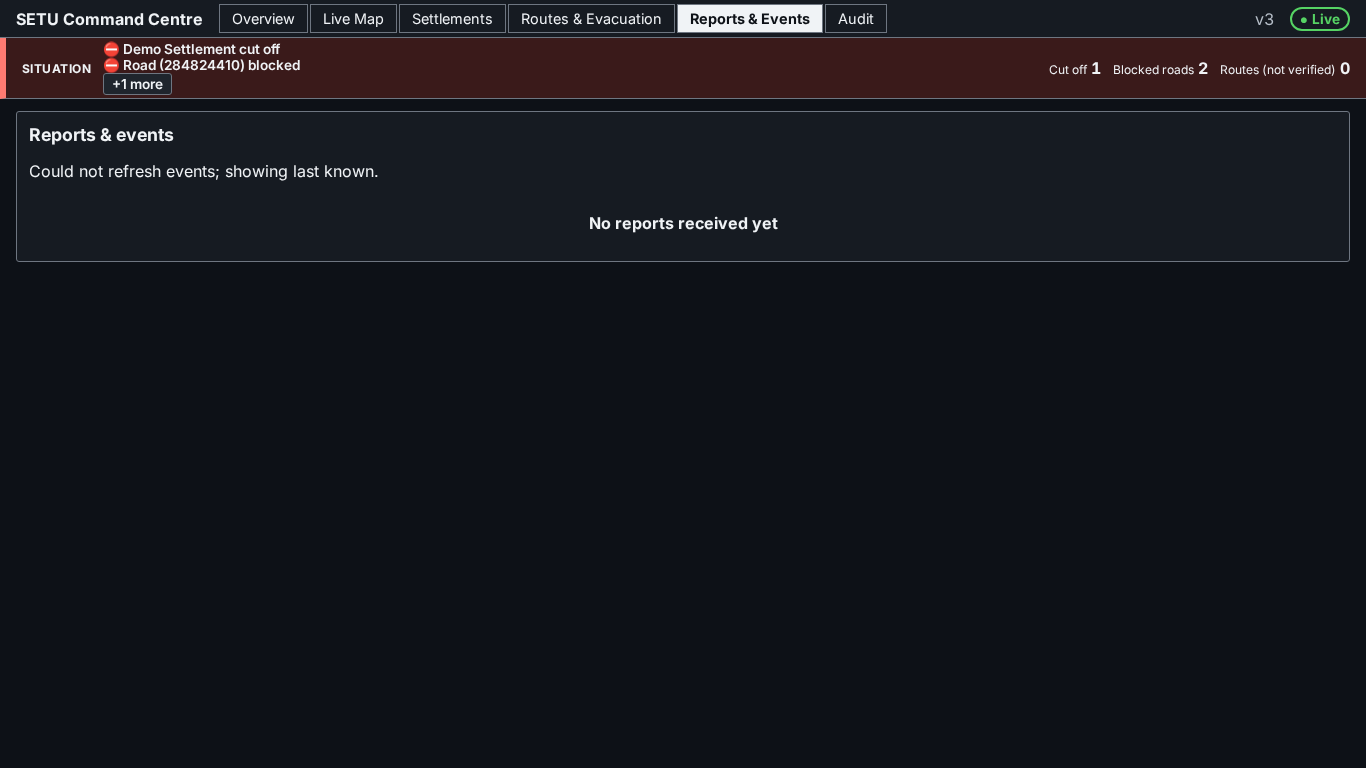
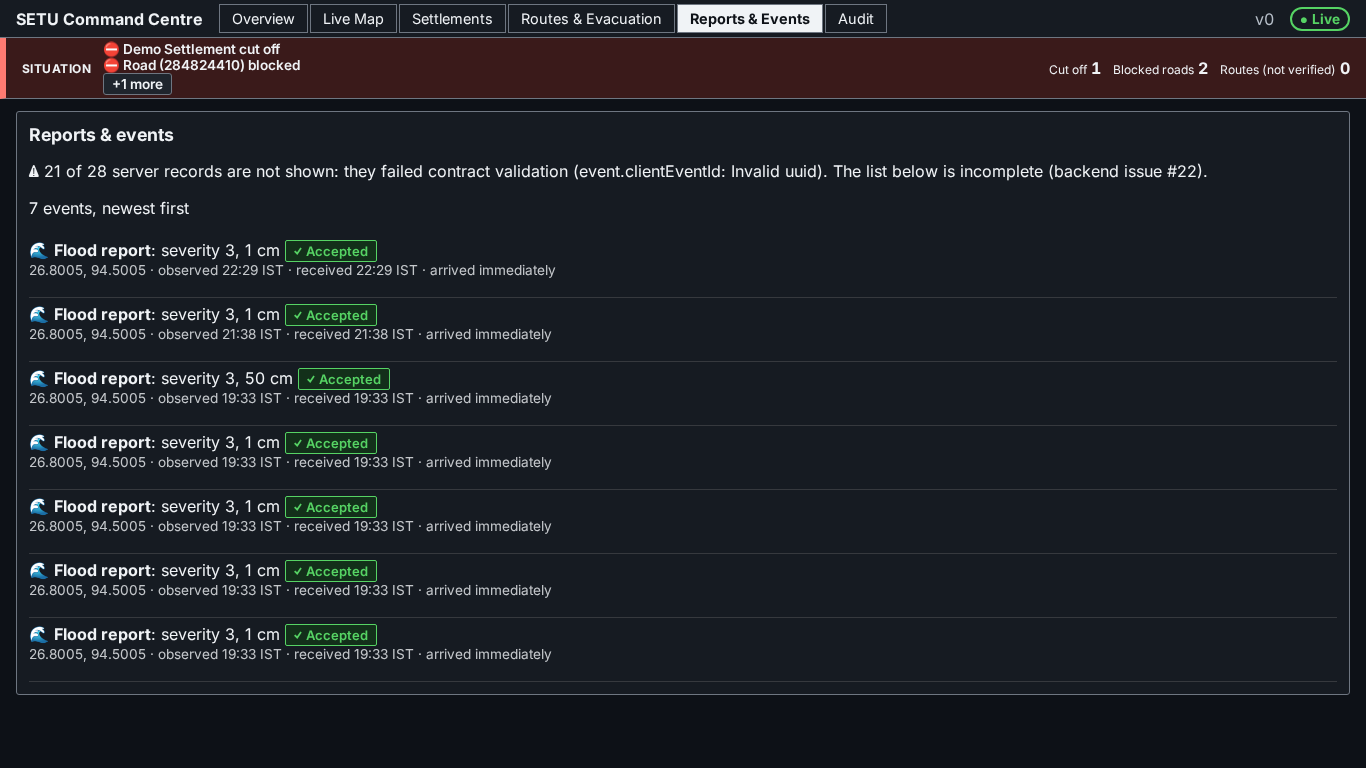
frontend: keep valid event records when some fail validation; synthetic road halo
listEvents validates record by record and reports skipped records (onSkippedRecords);
Command shows a notice in Events and Audit. Backend 28296b6 flags synthetic roads: add a map halo.

diff --git a/frontend/packages/api-client/src/http.ts b/frontend/packages/api-client/src/http.ts
@@ -40,11 +40,13 @@ export interface HttpApiClientOptions {
   reconnectMaxMs?: number;
   /** Defaults to the global EventSource when present; otherwise polling only. */
   eventSource?: EventSourceFactory;
+  /** Called after every listEvents() with how many server records failed contract validation (0 = none). Valid records are still returned. */
+  onSkippedRecords?: (info: { skipped: number; total: number; firstIssue?: string }) => void;
 }
 
 const BatchResponse = z.object({ acks: z.array(SubmitAckSchema) });
 const StatusResponse = z.object({ statuses: z.array(EventStatusSchema) });
-const EventsResponse = z.object({ events: z.array(EventRecordSchema) });
+const EventsResponse = z.object({ events: z.array(z.unknown()) });
 const StreamMessage = z.object({ type: z.literal('version'), version: z.number().int().nonnegative() });
 
 export function createHttpApiClient(opts: HttpApiClientOptions = {}): ApiClient {
@@ -142,7 +144,17 @@ export function createHttpApiClient(opts: HttpApiClientOptions = {}): ApiClient 
     if (params.type !== undefined) q.set('type', params.type);
     const qs = q.toString();
     const res = await request('/api/v1/events' + (qs ? `?${qs}` : ''));
-    return (await json(res, EventsResponse)).events;
+    // Validate record by record: one bad record must not hide the valid ones. Skipped records are reported, never silently dropped.
+    const raw = (await json(res, EventsResponse)).events;
+    const valid: EventRecord[] = [];
+    let firstIssue: string | undefined;
+    for (const rec of raw) {
+      const r = EventRecordSchema.safeParse(rec);
+      if (r.success) valid.push(r.data);
+      else firstIssue ??= `${r.error.issues[0]?.path.join('.') ?? '?'}: ${r.error.issues[0]?.message ?? 'invalid'}`;
+    }
+    opts.onSkippedRecords?.({ skipped: raw.length - valid.length, total: raw.length, ...(firstIssue ? { firstIssue } : {}) });
+    return valid;
   }
 
   function subscribe(onChange: (snapshotVersion: number) => void): () => void {

diff --git a/frontend/packages/api-client/src/events-skipped.test.ts b/frontend/packages/api-client/src/events-skipped.test.ts
@@ -1,0 +1,38 @@
+import { describe, expect, it } from 'vitest';
+import { createHttpApiClient } from './http.js';
+
+const valid = {
+  eventId: 'evt_1',
+  event: {
+    clientEventId: '2c7cd4dc-f5ee-4380-b21f-068e3c0564dd', type: 'flood_report', occurredAt: '2026-10-30T10:00:00Z',
+    reporterId: 'r1', deviceId: 'd1', location: { lat: 26.9, lng: 94.1 }, severity: 2,
+  },
+  serverState: 'applied', receivedAt: '2026-10-30T10:00:01Z', appliedAtVersion: 3,
+};
+// Internal-envelope style record: clientEventId is a ULID, not a UUID (live backend issue #22).
+const bad = { ...valid, eventId: 'evt_2', event: { ...valid.event, clientEventId: '06GRTDY13XGYWMK9J2TGCC7GNR' } };
+
+const clientWith = (events: unknown[], onSkipped?: (i: { skipped: number; total: number; firstIssue?: string }) => void) =>
+  createHttpApiClient({
+    baseUrl: 'http://x',
+    fetch: (async () => new Response(JSON.stringify({ events }), { status: 200, headers: { 'content-type': 'application/json' } })) as typeof fetch,
+    ...(onSkipped ? { onSkippedRecords: onSkipped } : {}),
+  });
+
+describe('listEvents with records that fail contract validation', () => {
+  it('returns the valid records and reports how many were skipped, never failing the whole list', async () => {
+    const seen: Array<{ skipped: number; total: number; firstIssue?: string }> = [];
+    const out = await clientWith([valid, bad, bad], (i) => seen.push(i)).listEvents();
+    expect(out.map((e) => e.eventId)).toEqual(['evt_1']);
+    expect(seen).toHaveLength(1);
+    expect(seen[0]).toMatchObject({ skipped: 2, total: 3 });
+    expect(seen[0]!.firstIssue).toContain('clientEventId');
+  });
+
+  it('reports zero skipped when everything is valid', async () => {
+    const seen: number[] = [];
+    const out = await clientWith([valid], (i) => seen.push(i.skipped)).listEvents();
+    expect(out).toHaveLength(1);
+    expect(seen).toEqual([0]);
+  });
+});

diff --git a/frontend/apps/command/src/data/skipped.tsx b/frontend/apps/command/src/data/skipped.tsx
@@ -1,0 +1,23 @@
+import { useSyncExternalStore } from 'react';
+
+/** Server event records that failed contract validation on the last fetch (reported by the http client, never silently dropped). */
+export interface SkippedInfo { skipped: number; total: number; firstIssue?: string }
+let current: SkippedInfo = { skipped: 0, total: 0 };
+const listeners = new Set<() => void>();
+export function setSkippedEvents(info: SkippedInfo): void {
+  if (info.skipped === current.skipped && info.total === current.total) return;
+  current = info; listeners.forEach((l) => l());
+}
+const subscribe = (l: () => void) => { listeners.add(l); return () => { listeners.delete(l); }; };
+export const useSkippedEvents = (): SkippedInfo => useSyncExternalStore(subscribe, () => current);
+
+export function SkippedEventsNotice() {
+  const { skipped, total, firstIssue } = useSkippedEvents();
+  if (skipped === 0) return null;
+  return (
+    <p role="status" data-testid="skipped-events-notice" data-skipped={skipped}>
+      ⚠ {skipped} of {total} server records are not shown: they failed contract validation
+      {firstIssue ? ` (${firstIssue})` : ''}. The list below is incomplete (backend issue #22).
+    </p>
+  );
+}

diff --git a/frontend/apps/command/src/map/layers.ts b/frontend/apps/command/src/map/layers.ts
@@ -86,7 +86,7 @@ export const toggleDataClass = (id: ToggleId): DataClass => LAYER_DATA_CLASS[TOG
 export const TOGGLE_LAYERS: Record<ToggleId, string[]> = {
   terrain: [],
   rivers: [],
-  roads: ['roads-bridge-casing', 'roads-line', 'roads-line-minor'],
+  roads: ['roads-bridge-casing', 'roads-line', 'roads-line-minor', 'roads-synthetic'],
   settlements: ['settlements-circle', 'settlements-synthetic'],
   shelters: ['shelters-circle', 'shelters-synthetic'],
   flood: ['flood-fill', 'flood-outline', 'flood-outline-modelled', 'flood-uncertain'],
@@ -274,6 +274,11 @@ export const MAP_LAYERS: LayerSpecification[] = [
       'circle-stroke-width': 2,
       'circle-stroke-opacity': 0.8,
     },
+  },
+  {
+    id: 'roads-synthetic', type: 'line', source: SOURCE_IDS.roads, filter: ['==', ['get', 'synthetic'], true],
+    layout: { 'line-cap': 'round', 'line-join': 'round' },
+    paint: { 'line-color': '#7b3fb0', 'line-width': 11, 'line-opacity': 0.28 },
   },
   {
     // Backend-flagged demo/fixture features (properties.synthetic === true): purple ring, so they never pass as real.

diff --git a/frontend/packages/api-client/src/index.ts b/frontend/packages/api-client/src/index.ts
@@ -12,10 +12,12 @@ export interface CreateApiClientOptions {
   mockAdapter?: ApiClient;
   /** For mode 'http' (stub until contract sign-off). */
   baseUrl?: string;
+  /** For mode 'http': reports server event records skipped for failing contract validation. */
+  onSkippedRecords?: (info: { skipped: number; total: number; firstIssue?: string }) => void;
 }
 
 export function createApiClient(opts: CreateApiClientOptions): ApiClient {
-  if (opts.mode === 'http') return createHttpApiClient({ baseUrl: opts.baseUrl });
+  if (opts.mode === 'http') return createHttpApiClient({ baseUrl: opts.baseUrl, ...(opts.onSkippedRecords ? { onSkippedRecords: opts.onSkippedRecords } : {}) });
   if (opts.mode === 'mock') {
     if (!opts.mockAdapter) {
       throw new Error("createApiClient({mode:'mock'}) needs a mockAdapter; use createApiClientWithMock from @setu/mock-backend");

diff --git a/frontend/apps/command/src/sections/events/EventsSection.tsx b/frontend/apps/command/src/sections/events/EventsSection.tsx
@@ -1,3 +1,4 @@
+import { SkippedEventsNotice } from '../../data/skipped';
 import { memo, useMemo, useState } from 'react';
 import { Panel, EmptyState, SyncStatusBadge } from '@setu/ui';
 import type { ProjectionSnapshot } from '@setu/contract';
@@ -84,6 +85,7 @@ export function EventsFeed({
   return (
     <div data-testid="events-section">
       <Panel title="Reports & events">
+        <SkippedEventsNotice />
         {error && <p role="alert">Could not refresh events; showing last known.</p>}
         {rows.length === 0 ? (
           <EmptyState title="No reports received yet" />

diff --git a/frontend/apps/command/src/audit/AuditView.tsx b/frontend/apps/command/src/audit/AuditView.tsx
@@ -1,3 +1,4 @@
+import { SkippedEventsNotice } from '../data/skipped';
 import { useMemo, useState } from 'react';
 import { Panel, EmptyState, SyncStatusBadge } from '@setu/ui';
 import type { EventRecord, FieldEventType } from '@setu/contract';
@@ -63,6 +64,7 @@ export function AuditView({ onShowFeature }: AuditViewProps) {
   return (
     <div data-testid="audit-view">
       <Panel title="Audit: every report received">
+        <SkippedEventsNotice />
         <div style={{ display: 'flex', gap: 12, marginBottom: 8, flexWrap: 'wrap' }}>
           <label>
             Type{' '}

diff --git a/frontend/apps/command/src/data/client.ts b/frontend/apps/command/src/data/client.ts
@@ -1,8 +1,9 @@
 import type { ApiClient } from '@setu/contract';
 import { createApiClient } from '@setu/api-client';
+import { setSkippedEvents } from './skipped';
 
 /** The only place the backend adapter is chosen: real HTTP API (VITE_API_URL, default http://localhost:8080). */
 export function createAppClient(): ApiClient {
   const baseUrl = (import.meta.env.VITE_API_URL as string | undefined) || 'http://localhost:8080';
-  return createApiClient({ mode: 'http', baseUrl });
+  return createApiClient({ mode: 'http', baseUrl, onSkippedRecords: setSkippedEvents });
 }

diff --git a/frontend/docs/FINAL_DELIVERY.md b/frontend/docs/FINAL_DELIVERY.md
@@ -20,7 +20,7 @@ Run against OpenCode's live backend (`VITE_API_URL`, not hard-coded) with the bu
 ## Not demonstrable / blockers
 1. **Route before closure vs after closure.** The backend's event log is persistent and the demo closure was already applied by earlier test events, so the live data is permanently in the "after" state. A "before" view needs a reset or a scenario namespace from OpenCode.
 2. **"No route after closure" shows as "No safe route"**, not "destination unreachable": all 9 routes are `unavailable` with `etaMin: 0`, including 8 real-network routes. The backend gives no per-route reason (issue #26).
-3. `GET /api/v1/events`: records whose `clientEventId` is an internal ULID (non-wire events) fail contract validation, so the Events view can't list them (issue #22).
-4. The demo road `syn-bridge-1` is not flagged `synthetic`, and bridge `284824410` appears twice in the road layer.
+3. `GET /api/v1/events` (backend frozen at `28296b6`): 21 of 28 records have an internal ULID `clientEventId` and fail contract validation (issue #22). The http client now validates record by record, so the Events and Audit views show the 7 valid records and a visible notice, "21 of 28 server records are not shown", instead of failing entirely.
+4. Backend `28296b6` now flags the demo roads `synthetic` (2 road features), and the map highlights them. Bridge `284824410` still appears twice in the road layer.
 5. Phase 2 of the device exchange (local projections via `@setu/core`) is blocked on OpenCode (issue #23).
 6. Not done: a "local view is not the district-wide picture" notice; an embankments layer; the `/health` path in the connectivity probe.
